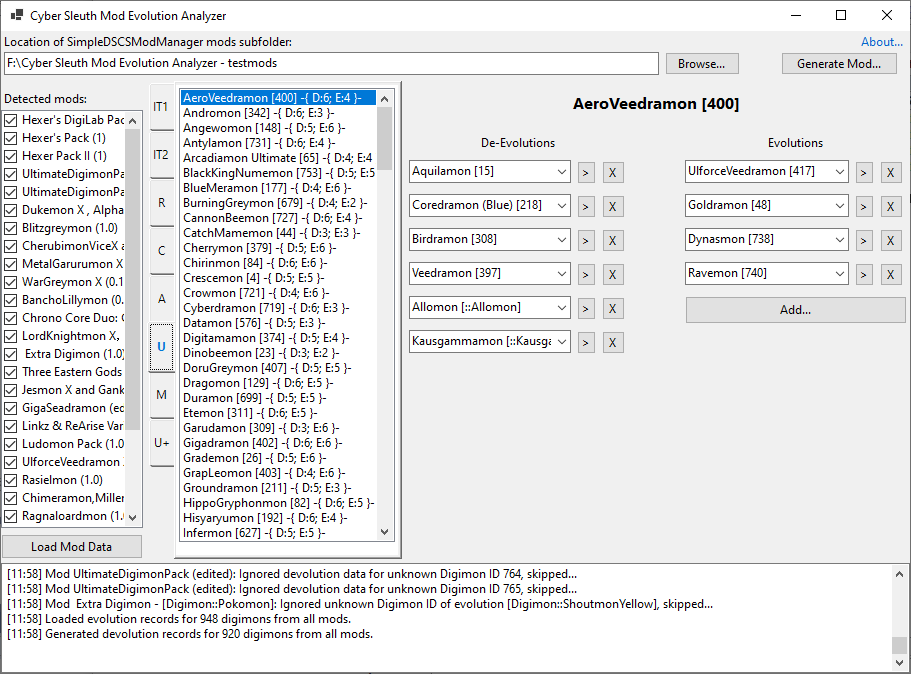
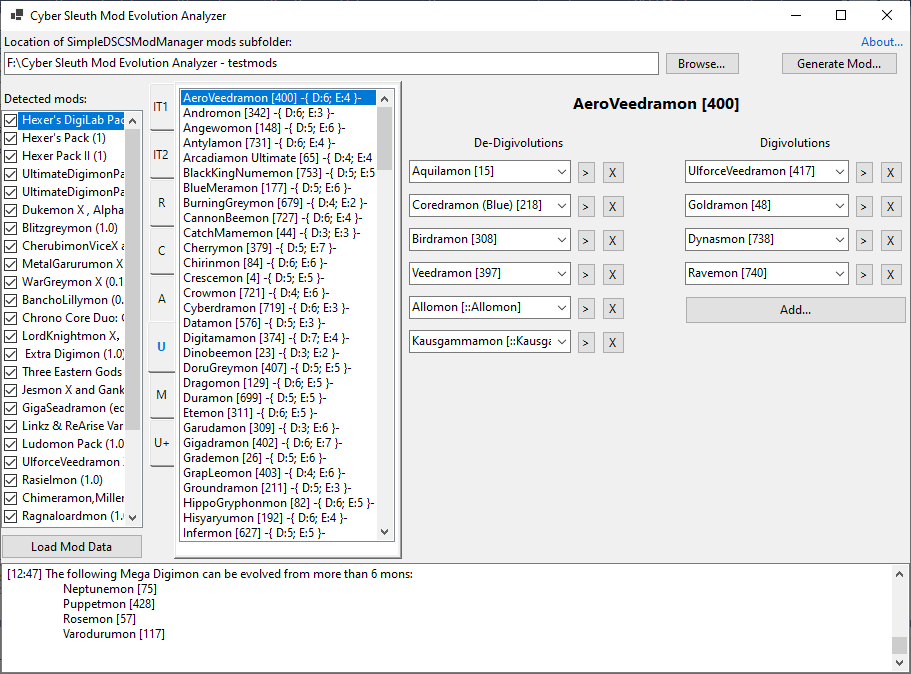
Use digivolution terms.

diff --git a/Form1.Designer.cs b/Form1.Designer.cs
@@ -621,7 +621,7 @@
             digimonDataDeEvoLabel.Name = "digimonDataDeEvoLabel";
             digimonDataDeEvoLabel.Size = new Size(220, 30);
             digimonDataDeEvoLabel.TabIndex = 0;
-            digimonDataDeEvoLabel.Text = "De-Evolutions";
+            digimonDataDeEvoLabel.Text = "De-Digivolutions";
             digimonDataDeEvoLabel.TextAlign = ContentAlignment.MiddleCenter;
             // 
             // digimonDataEvoLabel
@@ -631,7 +631,7 @@
             digimonDataEvoLabel.Name = "digimonDataEvoLabel";
             digimonDataEvoLabel.Size = new Size(222, 30);
             digimonDataEvoLabel.TabIndex = 1;
-            digimonDataEvoLabel.Text = "Evolutions";
+            digimonDataEvoLabel.Text = "Digivolutions";
             digimonDataEvoLabel.TextAlign = ContentAlignment.MiddleCenter;
             // 
             // digimonDeEvo1
